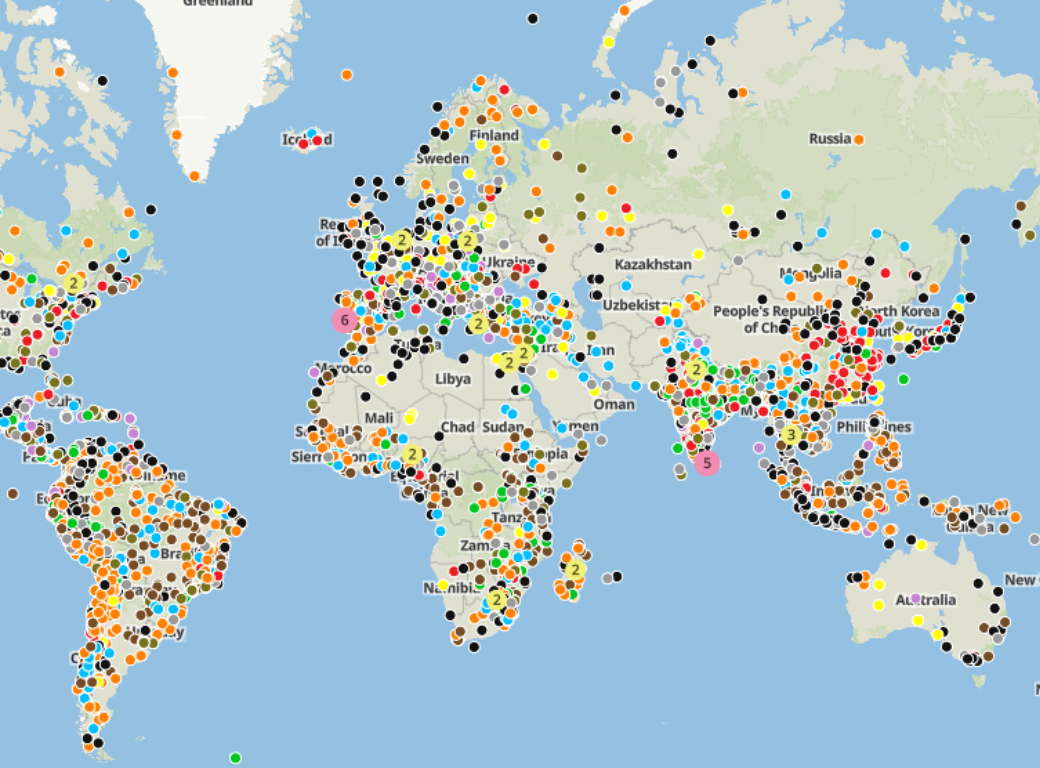
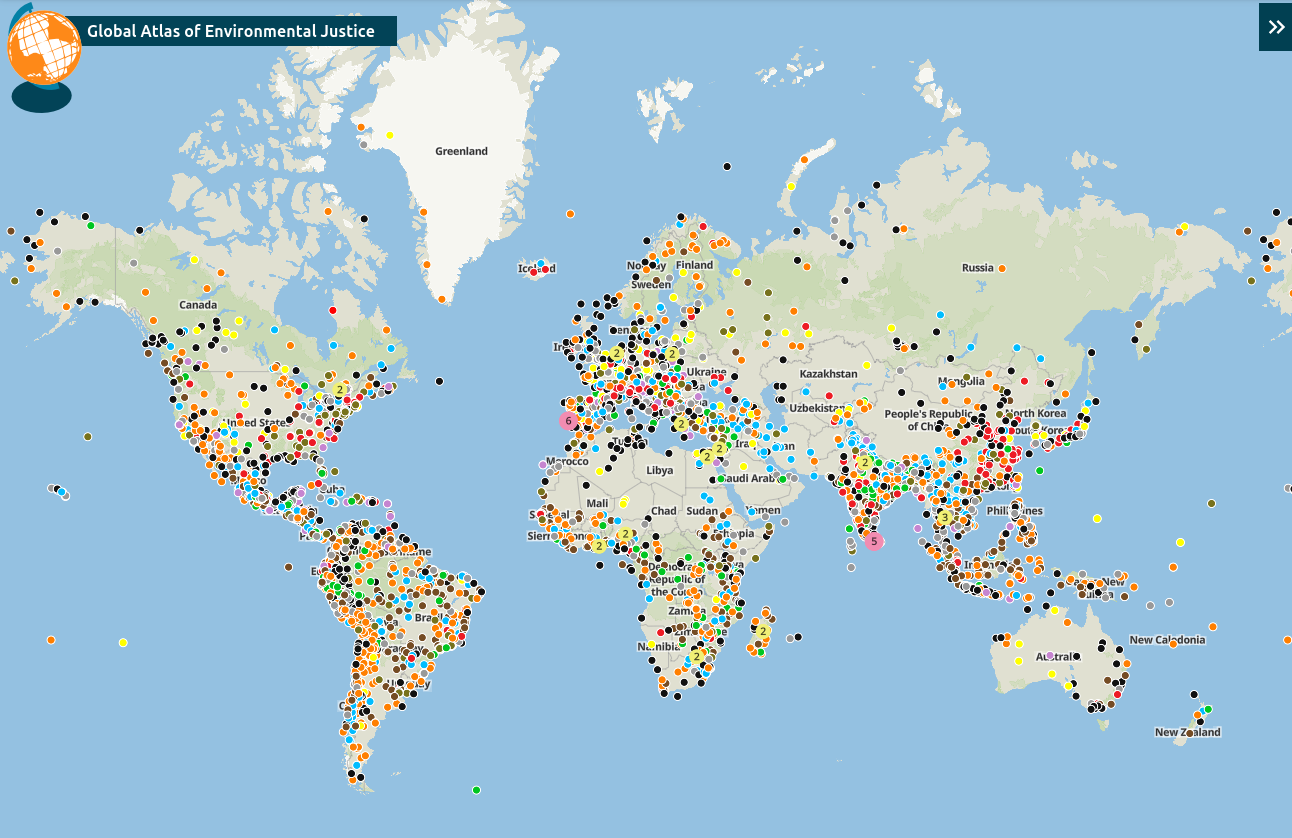
GEOMATICO-524 | Títulos más explícitos (#52)
* Títulos más explícitos

* Correcciones títulos

diff --git a/src/config.js b/src/config.js
@@ -27,7 +27,7 @@ export const CONFIG = {
     },
     {
       img: 'img/satagro.png',
-      title: 'SatAgro',
+      title: 'SATAGRO - Agricultura de precisión',
       url: 'https://app.satagro.pl/es/login/#dashboard',
     },
     {
@@ -37,27 +37,27 @@ export const CONFIG = {
     },
     {
       img: 'img/taxomap.png',
-      title: 'Taxo&Map',
+      title: 'TAXOMAP - Mapa biodiversidad MCNB',
       url: 'https://taxomap.geomatico.es/',
     },
     {
       img: 'img/vias-romanas.jpeg',
-      title: 'Vías Romanas',
+      title: 'Vías romanas',
       url: 'https://www.viasromanas.net/',
     },
     {
       img: 'img/carimed.png',
-      title: 'Calidad ecológica de los ríos de Barcelona',
+      title: 'CARIMED - Calidad ecológica de los ríos de Barcelona',
       url: 'https://www.ub.edu/barcelonarius/visor22/#/indicator/ibmwp_rang/2021/0',
     },
     {
       img: 'img/firepoctep.png',
-      title: 'Firepoctep',
+      title: 'FIREPOCTEP - Mapa de cortafuegos productivos',
       url: 'https://labs.geomatico.es/firepoctep/#/es/map',
     },
     {
       img: 'img/IDE-Cetemas.png',
-      title: 'IDE Cetemas',
+      title: 'IDE Centro Tecnológico Forestal',
       url: 'https://www.cetemas.es/ide/',
     },
     {
